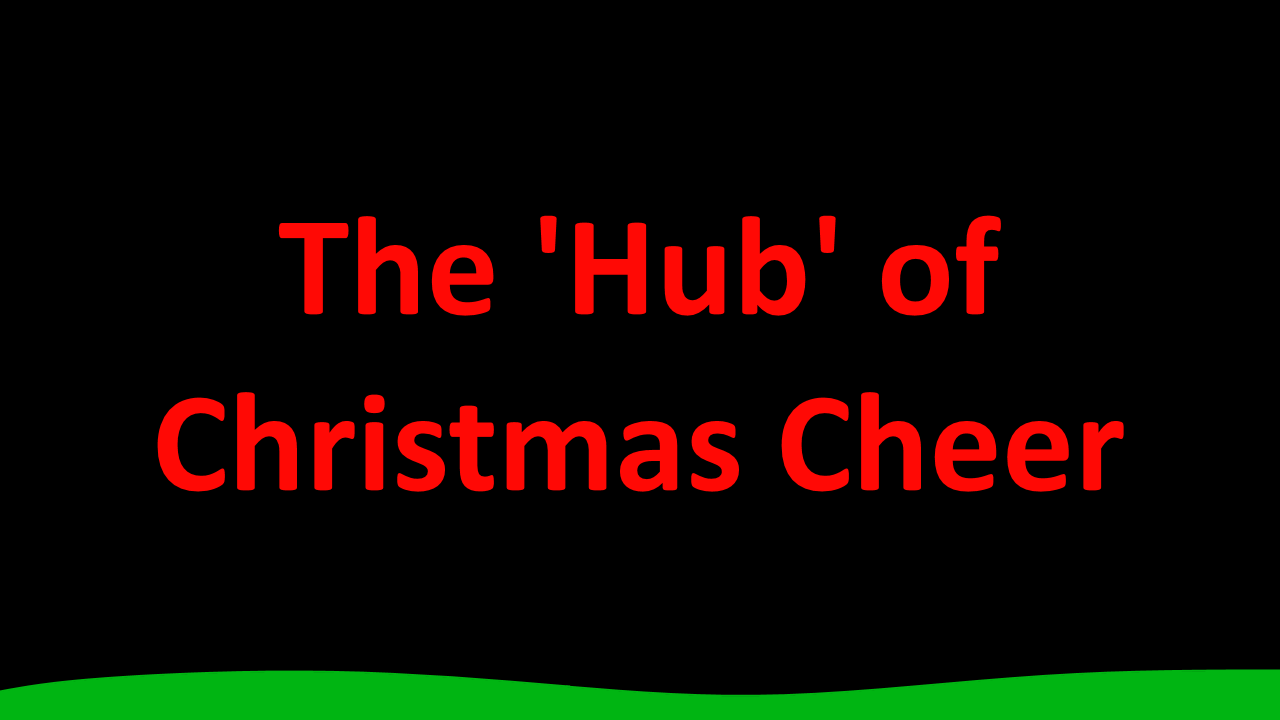
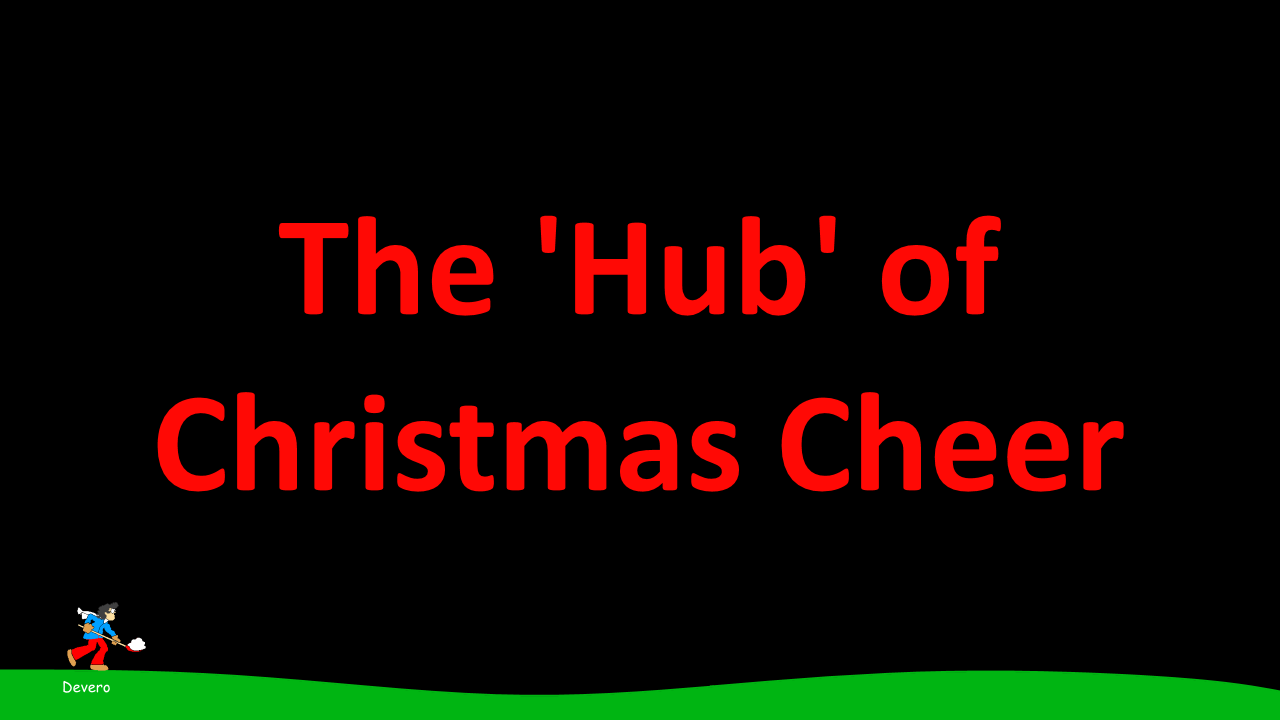
Attempt to handle touch events. Add snow shoveler to background image.

Changed region(s): [[0.1562, 0.9167, 0.8438, 0.9778], [0.0, 0.825, 0.125, 0.9778], [0.875, 0.9167, 1.0, 0.9778]]

diff --git a/snowfall.html b/snowfall.html
@@ -4,7 +4,7 @@
 <title>Snowfall</title>
 </head>
 <body style="margin: 0; padding: 0; background: black;">
-<canvas id="canvas" width="1270" height="710"  onmousedown="dragX = event.clientX" onmouseup="touch = (event.clientX - dragX) / 10"></canvas>
+<canvas id="canvas" width="1270" height="710"></canvas>
 <canvas id="background" width="1270" height="710" style="display: none"></canvas>
 <img id="imageBackground" src="./snowfall_background.png" style="display: none" />
 <script type="text/javascript">
@@ -17,6 +17,7 @@ var height = ctx.canvas.height;
 
 var counter = 1;
 var snowflakes = [];
+var ongoingTouches = [];
 
 var foreImg;
 var backImg;
@@ -25,12 +26,24 @@ var foreImgData;
 
 var dragX = 0;
 var touch = 0;
+var mouseDown = false;
+var touchDown = false;
 
 window.onload = function(){
 	/* Draw into the background image */
 	var img = document.getElementById("imageBackground");
-	background.drawImage(img, 0, 0);	
-	
+	background.drawImage(img, 0, 0);
+
+	/* Add event handlers on the canvas */
+	var canvas = document.getElementById("canvas");
+	canvas.addEventListener("touchstart", handleTouchStart, false);
+	canvas.addEventListener("touchend", handleTouchEnd, false);
+	canvas.addEventListener("touchcancel", handleTouchCancel, false);
+	canvas.addEventListener("touchmove", handleTouchMove, false);
+	canvas.addEventListener("mousedown", handleMouseDown, false);
+	canvas.addEventListener("mousemove", handleMouseMove, false);
+	canvas.addEventListener("mouseup", handleMouseUp, false);
+
 	/* Make two copies of the background pixels - one to draw the
      * foreground onto, and one to make updates to the background */
     foreImg = background.getImageData(0, 0, width, height);
@@ -120,7 +133,7 @@ function animationTick(){
 		}
 
 		/* Apply the wind */
-		var targetXVel = Math.random() * wind;
+		var targetXVel = Math.random() * wind + touch;
 		if (snowflake.xVel < targetXVel - 0.2)
 			snowflake.xVel += 0.2;
 		else if (snowflake.xVel > targetXVel + 0.2)
@@ -244,6 +257,43 @@ function removeArrayItem(currentIndex, list) {
     list[currentIndex] = last;
     
     return last;
+}
+
+/* Handle touch events. Currently, they do NOT work with multi-touch! */
+function handleTouchStart(evt){
+	dragX = evt.clientX;
+	touchDown = true;
+}
+
+function handleTouchMove(evt){
+	if (touchDown) 
+		touch = (evt.clientX - dragX) / 10;
+}
+
+function handleTouchEnd(evt){
+	touch = (evt.clientX - dragX) / 10;
+	touchDown = false;
+}
+
+function handleTouchCancel(evt){
+	touch = 0;
+	touchDown = false;
+}
+
+/* Handle mouse events */
+function handleMouseDown(evt) {
+	dragX = evt.clientX;
+	mouseDown = true;
+}
+
+function handleMouseMove(evt) {
+	if (mouseDown) 
+		touch = (evt.clientX - dragX) / 10;
+}
+
+function handleMouseUp(evt) {
+	touch = (evt.clientX - dragX) / 10;
+	mouseDown = false;
 }
 </script>
 </body>
